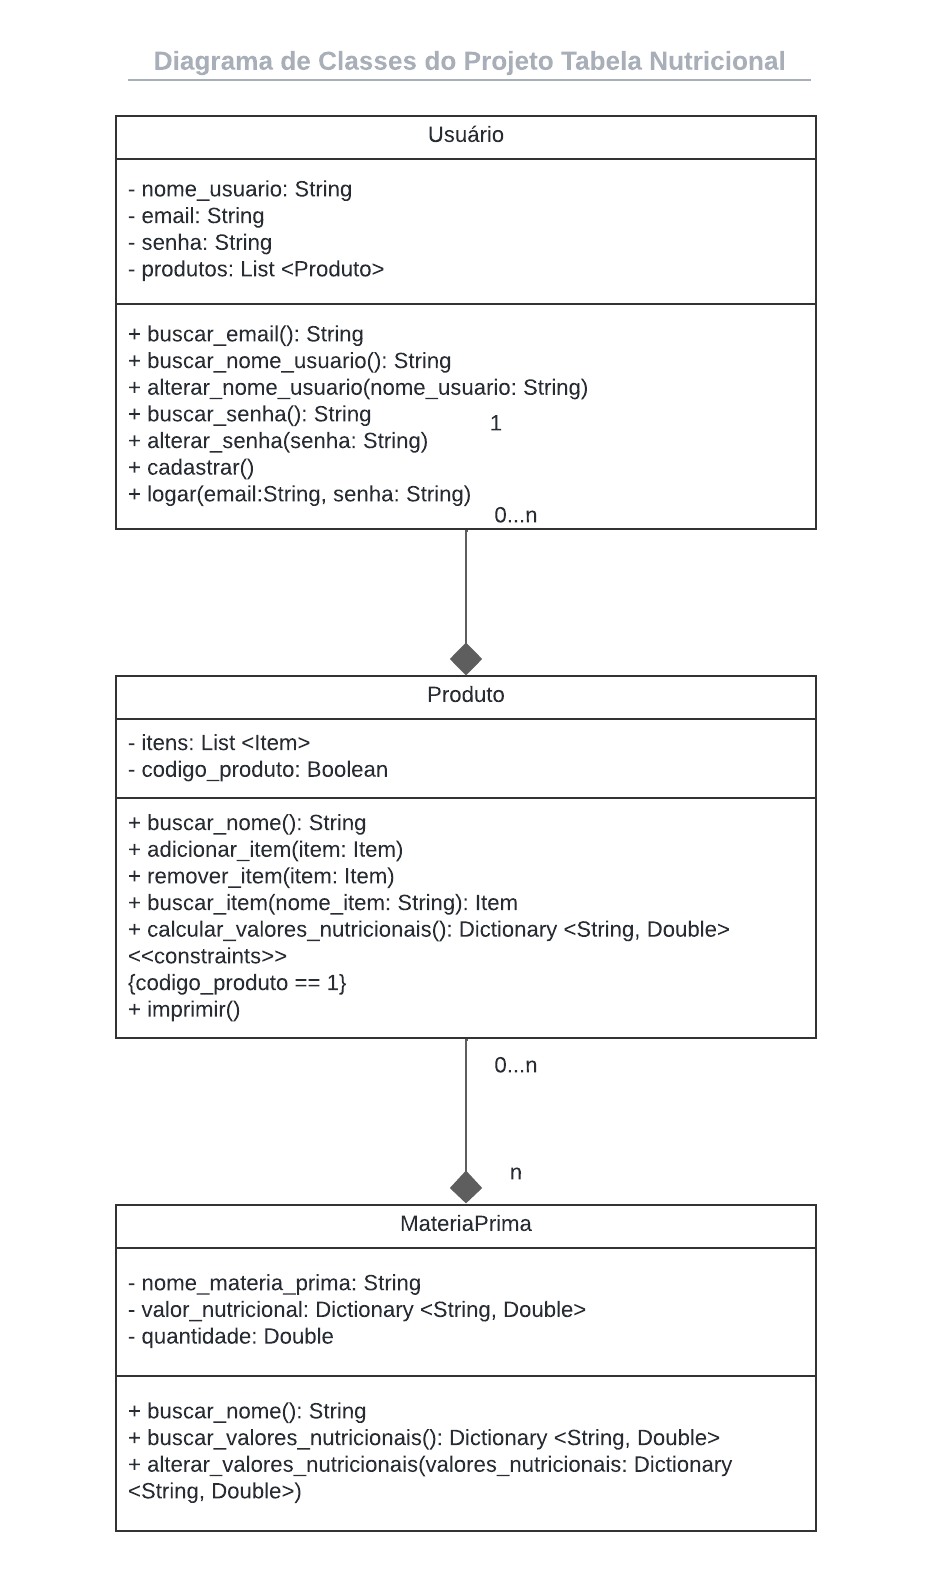
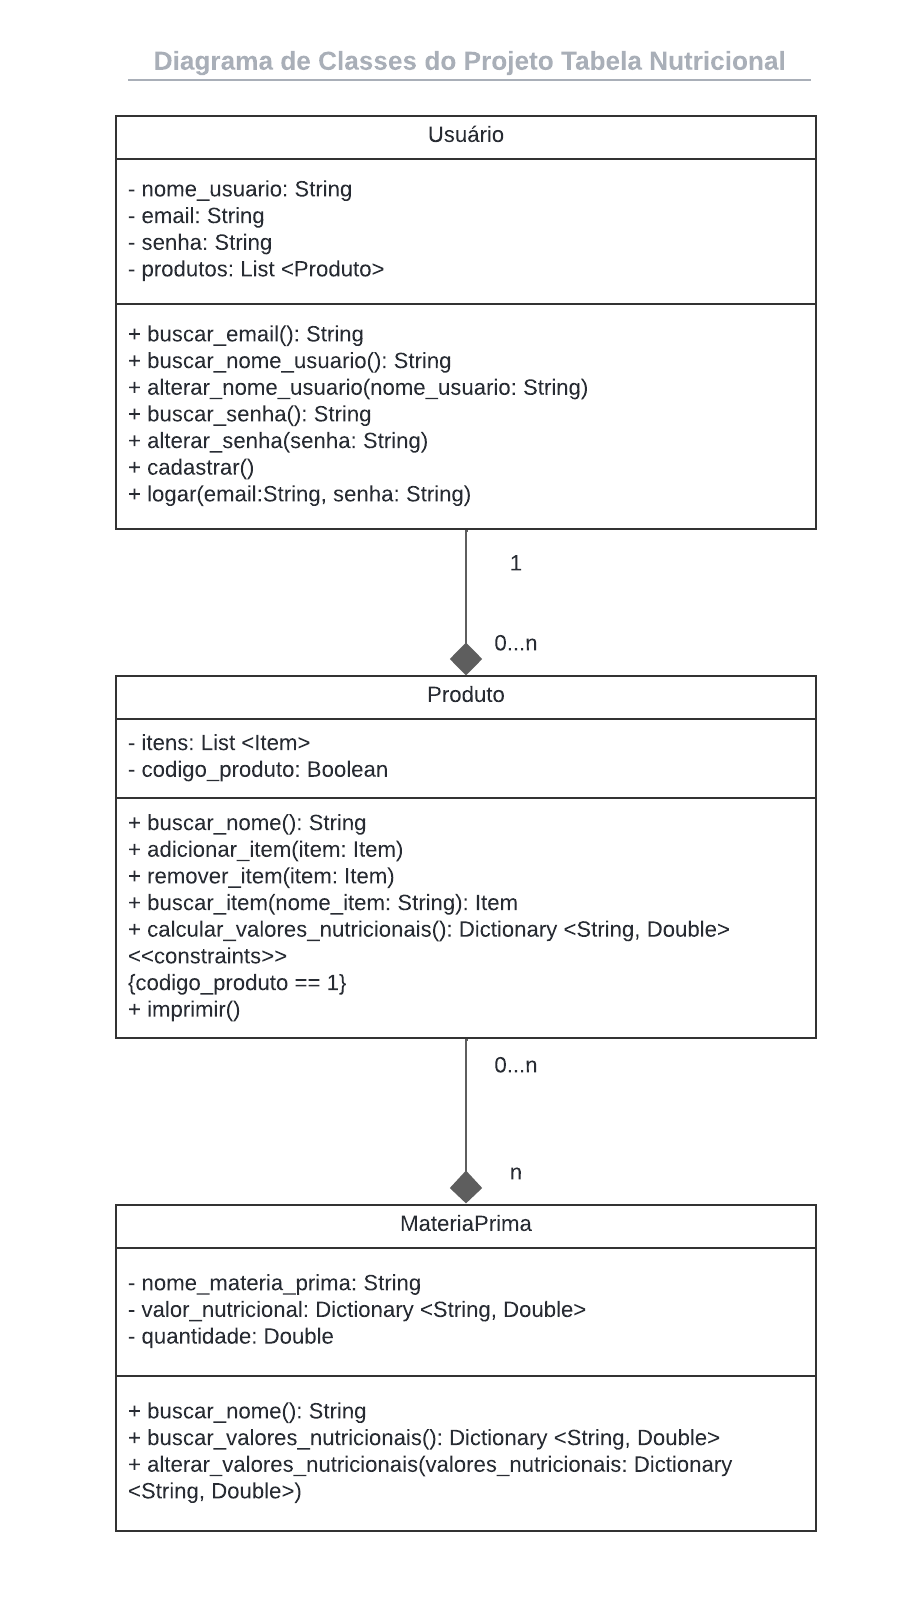
Adição do modelo físico e ajuste do modelo conceitual

Changed region(s): [[0.122, 0.0615, 0.8845, 0.9843], [0.1525, 0.0308, 0.854, 0.0923]]

diff --git a/docs/05-Arquitetura da Solução.md b/docs/05-Arquitetura da Solução.md
@@ -14,7 +14,7 @@ As referências abaixo irão auxiliá-lo na geração do artefato “Diagrama de
 > - [O que é um diagrama de classe UML? | Lucidchart](https://www.lucidchart.com/pages/pt/o-que-e-diagrama-de-classe-uml)
 -->
 ## Modelo ER (Projeto Conceitual)
-![Modelo ER](/docs/img/Diagrama%20ER.png)
+![Modelo Conceitual](/docs/img/Modelo%20Conceitual.png)
 
 <!-- O Modelo ER representa através de um diagrama como as entidades (coisas, objetos) se relacionam entre si na aplicação interativa.
 
@@ -25,6 +25,7 @@ A referência abaixo irá auxiliá-lo na geração do artefato “Modelo ER”.
 > - [Como fazer um diagrama entidade relacionamento | Lucidchart](https://www.lucidchart.com/pages/pt/como-fazer-um-diagrama-entidade-relacionamento)
 -->
 ## Projeto da Base de Dados
+![Modelo Físico](/docs/img/Modelo%20Físico.png)
 
 O projeto da base de dados corresponde à representação das entidades e relacionamentos identificadas no Modelo ER, no formato de tabelas, com colunas e chaves primárias/estrangeiras necessárias para representar corretamente as restrições de integridade.
  
